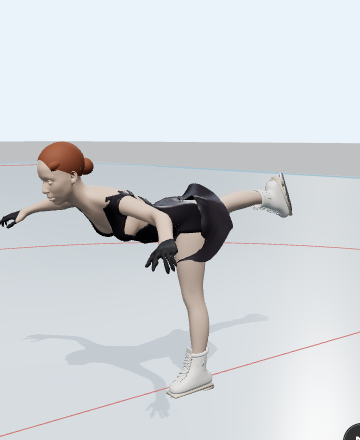
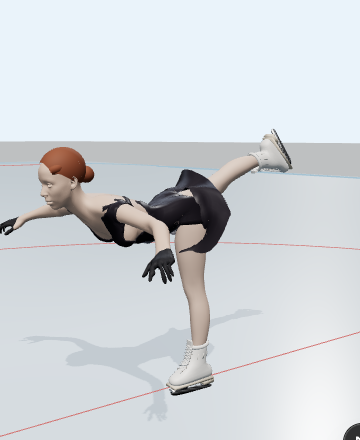
Wave 2 done: spin stills regenerated with the handbook positions, handoff documents waves 0–2

Changed region(s): [[0.0, 0.2955, 0.825, 0.9159]]

diff --git a/docs/HANDOFF.md b/docs/HANDOFF.md
@@ -125,7 +125,7 @@ are behind Vercel auth, production is public). The Vercel CLI is 54.x and nags t
 
 ```bash
 pnpm dev            # dev server (usually already running on :3000)
-pnpm test           # vitest: 91 tests (sov, scoring incl. pairs, rig, timeline, physics, pairs-data, pairs)
+pnpm test           # vitest: 234 tests (sov, scoring incl. pairs, rig, poses, timeline, physics, spins, pairs-data, pairs, costume)
 pnpm typecheck && pnpm lint
 pnpm build          # static routes incl. /pairs/[id]
 pnpm test:e2e       # Playwright smoke suite (uses the running dev server)
@@ -147,6 +147,40 @@ Screenshots and Blender previews go to the session scratchpad; view them with th
   `kind: "pair"`.
 - Tests pin ISU numbers (4T 9.50, 3A 8.00, 4A 12.50, 3Lz< 4.72, CCoSp4V 3.15, factors
   1.67/3.33 and 1.33/2.67).
+
+## Waves 0–2 (orchestrated, 14–15 Oct 2026)
+
+Run as waves of two worktree agents (`isolation: "worktree"`, dev servers on :3001/:3002, Blender
+assets symlinked from the main checkout), each verified by the orchestrator with its own
+screenshots and `pnpm test` before merging into `main`:
+
+- **Wave 0 contracts.** `three/rig/limits.ts`: range-of-motion table (`LIMITS`), `validatePose`,
+  `poseFrames`, `resolvePose`; `tests/poses.test.ts` walks every registered pose, its mirror and
+  the blend midpoints of timeline-adjacent poses; costume contract in `three/skaterStore.ts`
+  (`COSTUME_MATERIALS` the GLB keeps: top, skirt, legs, glove, boot, hair; `COSTUME_PRESETS`);
+  `poseNames()` + `three/rig/allPoses.ts` barrel (every pose module must be imported there).
+- **Wave 1 rig (section A).** `resolvePose` derives the pelvis tilt (`derivePelvisTilt`, convex
+  solve on pitch/roll from trunk and legs), limb twists (upper arm/thigh from the hinge child,
+  forearm from the hand, shin from the foot), projects knees and elbows into their hinge planes,
+  clamps posed feet to the booted ankle range (≥45° from the shin line, ±25° sideways), and is
+  what both the rig and the validator use. `lerpPose` blends skeleton-wise in the parent's
+  frame. The pelvis tilt pivots about the hip sockets so the blade stays on the ice.
+- **Wave 1 model (sections B, C).** Real dress shell (offset copy of the torso, solidified rim),
+  skirt rings on the measured pelvis outline weighted hips + nearer thigh, boots with cuff,
+  tongue, crossed laces and hooks, relaxed hands, boots centred on the measured shin and weighted
+  foot→shin across the ankle; CLI `--sleeves --skirt --neckline --palette`; runtime recolouring
+  by material name in `three/SkaterModel.tsx` and a Costume select in the player controls.
+- **Wave 2 jumps (section D).** `three/rig/poses-jumps.ts` (12 entry poses), entries built as
+  path segments (`EntrySegment`, `EDGE_ROLL_TIME`, `FLAT_TIME`), edge calls animated (lip,
+  flutz, unclear-edge flat) through `JumpParams.edgeCall` / the viewer spec's `edge`,
+  `app/jumps/FlipVsLutz.tsx` on one clock, tests pinning every difference.
+- **Wave 2 spins (section E).** `app/spins/SpinExplorer.tsx` (family, level, V, feature toggles,
+  variations; code + value + "what counts for the level"), spec `{ kind: "spin", code,
+  features }` → `spinFromSpec`; `three/rig/poses-spins.ts` overrides camel/sit/variations per
+  the handbook; `spinTimeline` animates change of edge (lean + trace), change of foot by jump,
+  flying entries per family, 8 revolutions, travelling threes; `tests/spins.test.ts`.
+- Stills: regenerate the 13 files in `public/poses` (incl. `camelForward`) after model or pose
+  changes (command in the pipeline section).
 
 ## Done since the first handoff (all committed)
 
